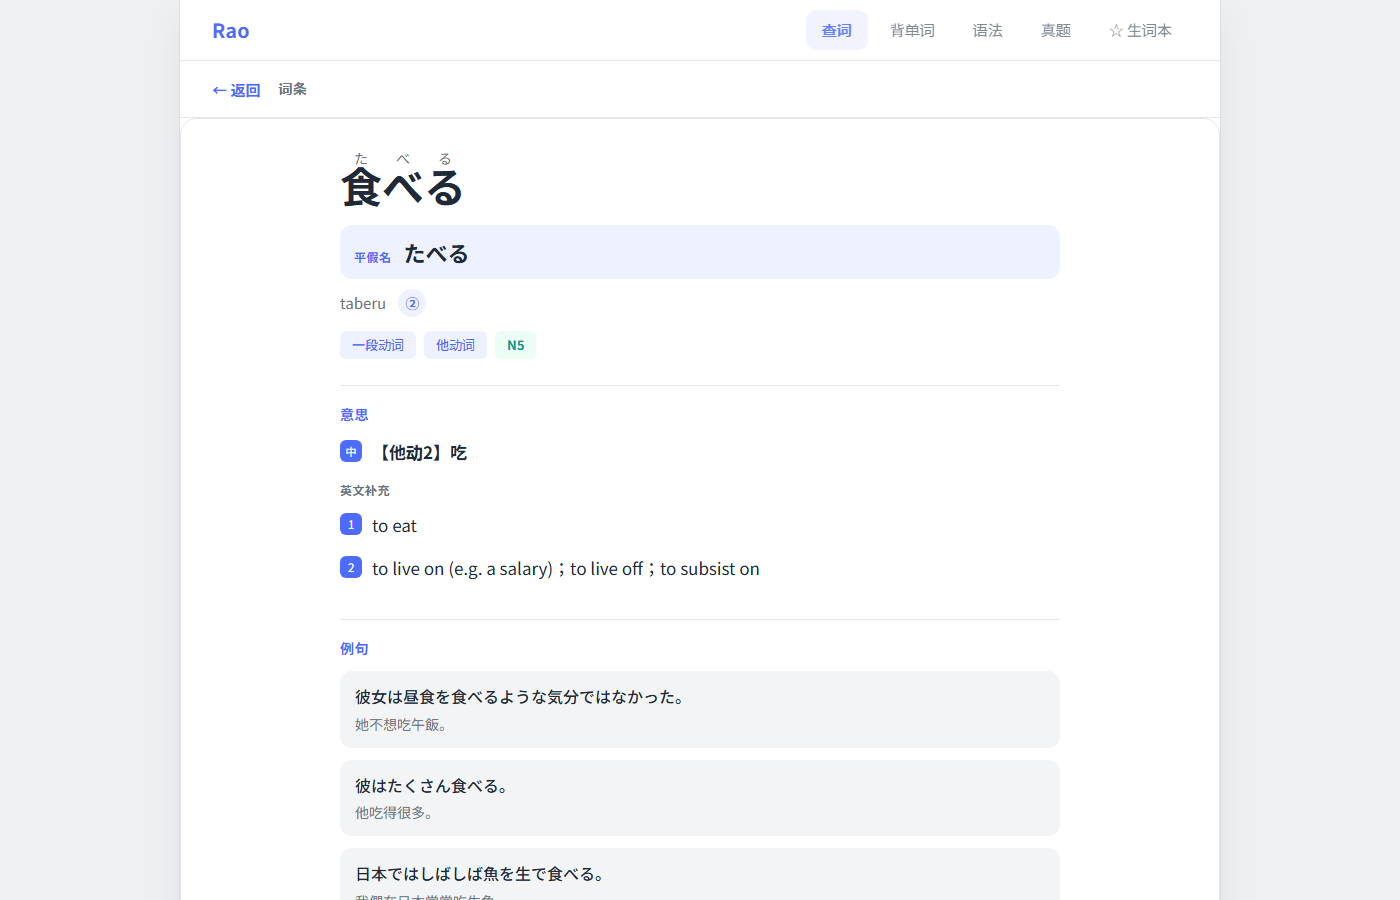
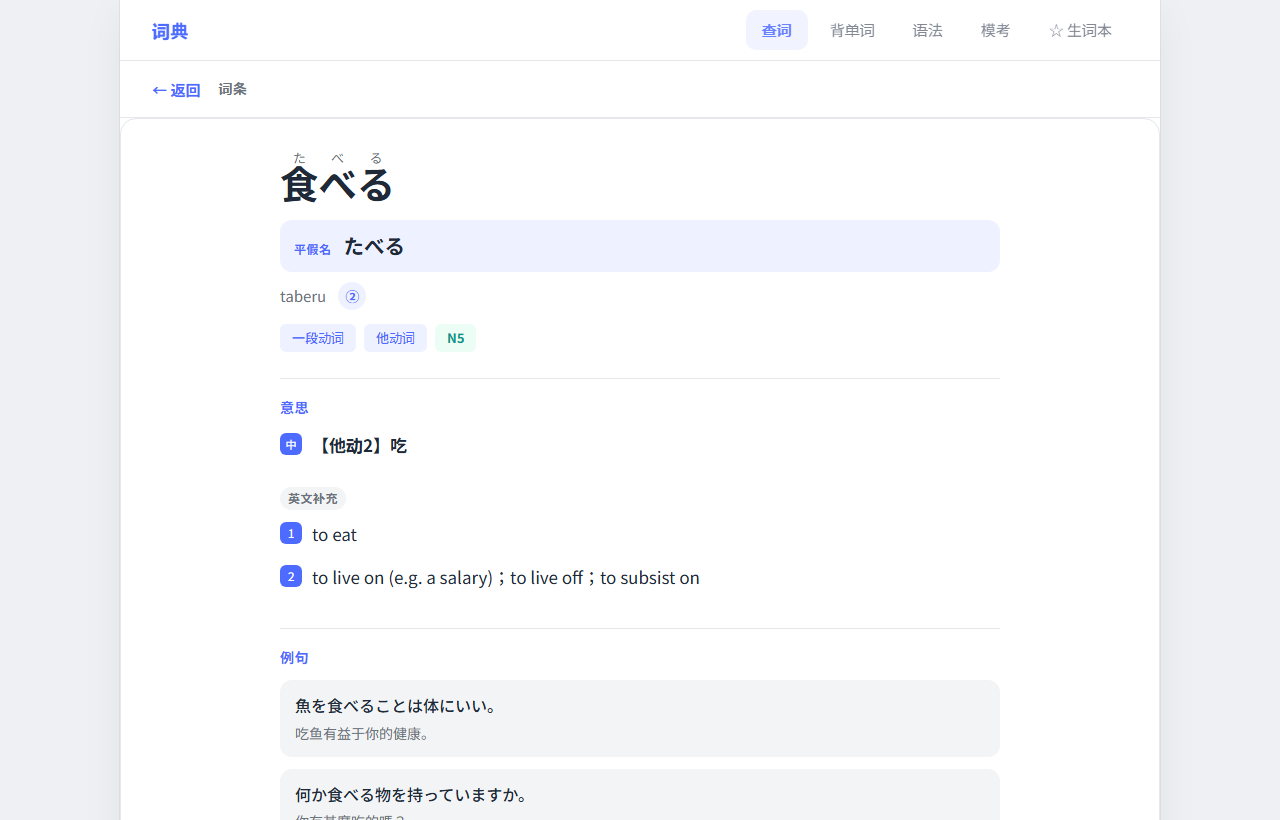
docs: make the README resume-ready
- add a screenshot grid to the first screen (word detail, grammar detail,
  exam list, quiz). The old shots were taken from the private build: they
  showed a different brand, different nav labels, a model that does not ship
  here, and the "no examples" placeholder that has since been fixed.
- add "why this exists" and "technical highlights" before the install steps:
  offline data layer and the word_forms(seq) index, the 208ms -> 14ms search
  fix and the 195ms -> 27ms N+1 removal, filling the JLPT gloss gaps with a
  local model (5.4% -> 98%), security hardening, and the test/CI setup
- add LICENSE (MIT for code) with an explicit note that dictionary data keeps
  its upstream licence and that CC-BY-SA share-alike applies to jmdict.db

diff --git a/README.md b/README.md
@@ -4,7 +4,42 @@
 
 > 个人 JLPT 备考工具 / 作品集项目。默认不依赖任何云端 API。
 
----
+| 查词 | 语法 |
+|---|---|
+| ![查词详情](docs/screenshots/02-word-detail.png) | ![语法详情](docs/screenshots/03-grammar-detail.png) |
+| 振假名 / 罗马音 / 音调 / 中文释义 / 活用表 / 双语例句 | 接续 + 中文释义 + 双语例句，英文单独标注 |
+
+| 模考列表 | 答题 |
+|---|---|
+| ![模考列表](docs/screenshots/04-exam-list.png) | ![答题](docs/screenshots/05-exam-quiz.png) |
+| 五个等级各一套示例卷，支持导入自己的题库 | 专项训练、进度条、交卷后进薄弱点复盘 |
+
+## 为什么做这个
+
+备考 JLPT 时现成工具要么在线、要么订阅制，离线就没有。这个项目把数据全部落到本机：
+JMdict 建成本地 SQLite，中文释义和例句用开放语料补齐，AI 讲解跑在本机 Ollama 上。
+断网也能查词、练题、复盘。
+
+## 技术要点
+
+**离线优先的数据层** — 21.9 万词条的 JMdict 解析进 SQLite（`entries` / `senses` / `word_forms` 三表），
+`word_forms(seq)` 索引是性能命脉：缺了它 `/api/jlpt` 从 47ms 掉到 16 秒。
+
+**搜索性能优化** — 中文释义反查要扫 2.4 万行 `gloss_zh`，是最大瓶颈。
+加了「查询含假名且已有结果就跳过反查」的判断后，`食べる` 从 208ms 降到 **14ms**；
+JLPT 列表去掉逐条回表的 N+1，100 条从 195ms 降到 **27ms**。
+
+**用本地模型补数据** — 上游中文词典只覆盖 5.4% 的词条，JLPT 五级本来只有 75–90%。
+写了脚本用本机 7B 模型批量翻译缺口词的英文释义，跑三轮把 JLPT 覆盖补到 **98%+**，
+产出单独存成 `gloss_zh_extra.jsonl.gz`，与上游数据分开、可回滚。
+
+**安全加固** — 本地服务也要防：Host 白名单挡 DNS rebinding（含 IPv6 方括号解析）、
+POST 端点强制 `application/json` 挡跨站简单请求、所有整数参数夹在 int64 内
+（超出会让 SQLite 抛 `OverflowError`，那不是 `sqlite3.Error`，会冒成 500）、
+第三方题库 HTML 走白名单重建（`<template>` 懒解析 + 元素过滤）。
+
+**测试与 CI** — 30 项纯函数单元测试（活用生成、数据校验、日志读写、答案分布）+ 
+72 项接口回归（输入边界、注入、CSRF、并发、导入、降级），GitHub Actions 自动跑单元测试。
 
 ## 三步跑起来（Windows）
 
